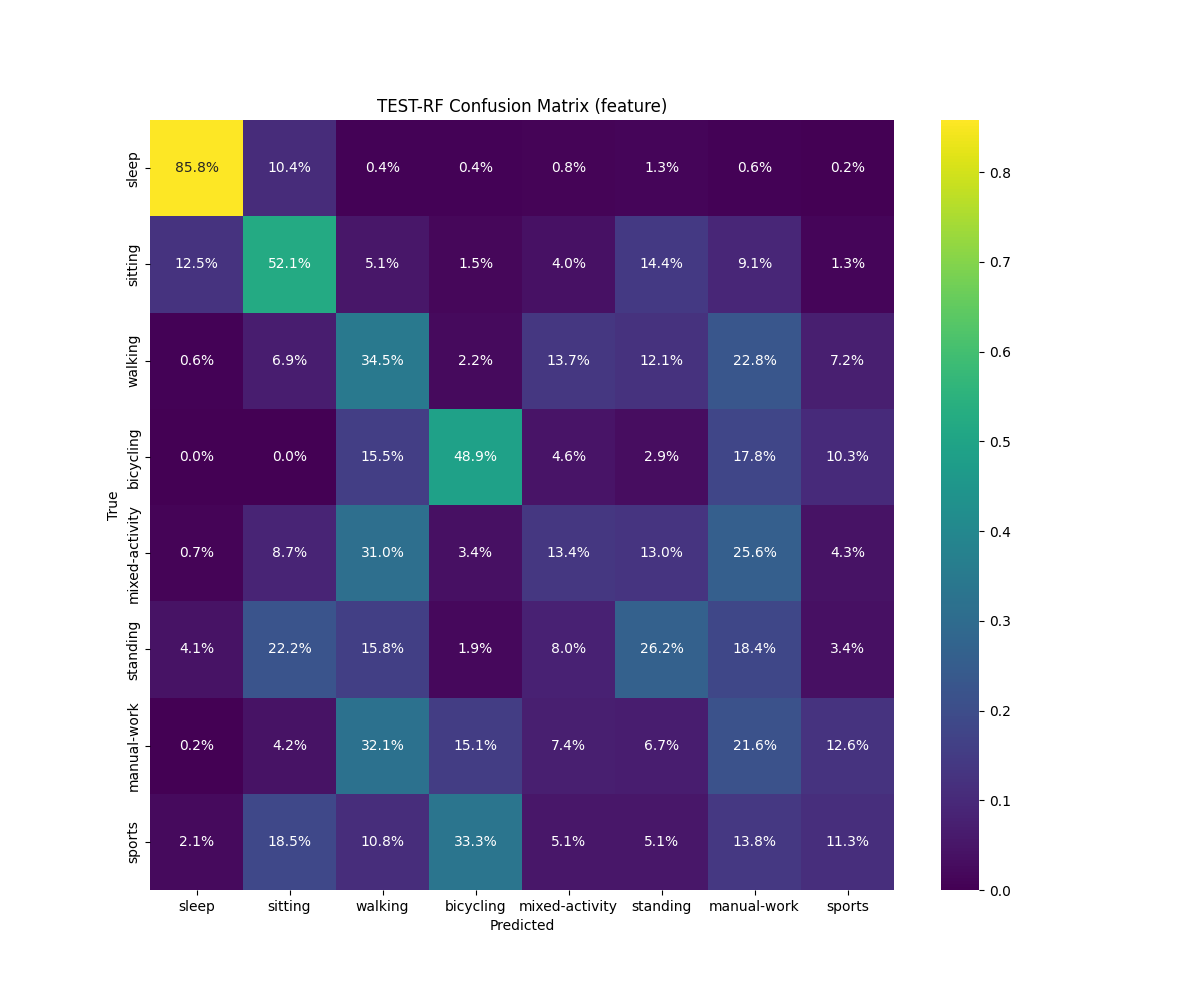
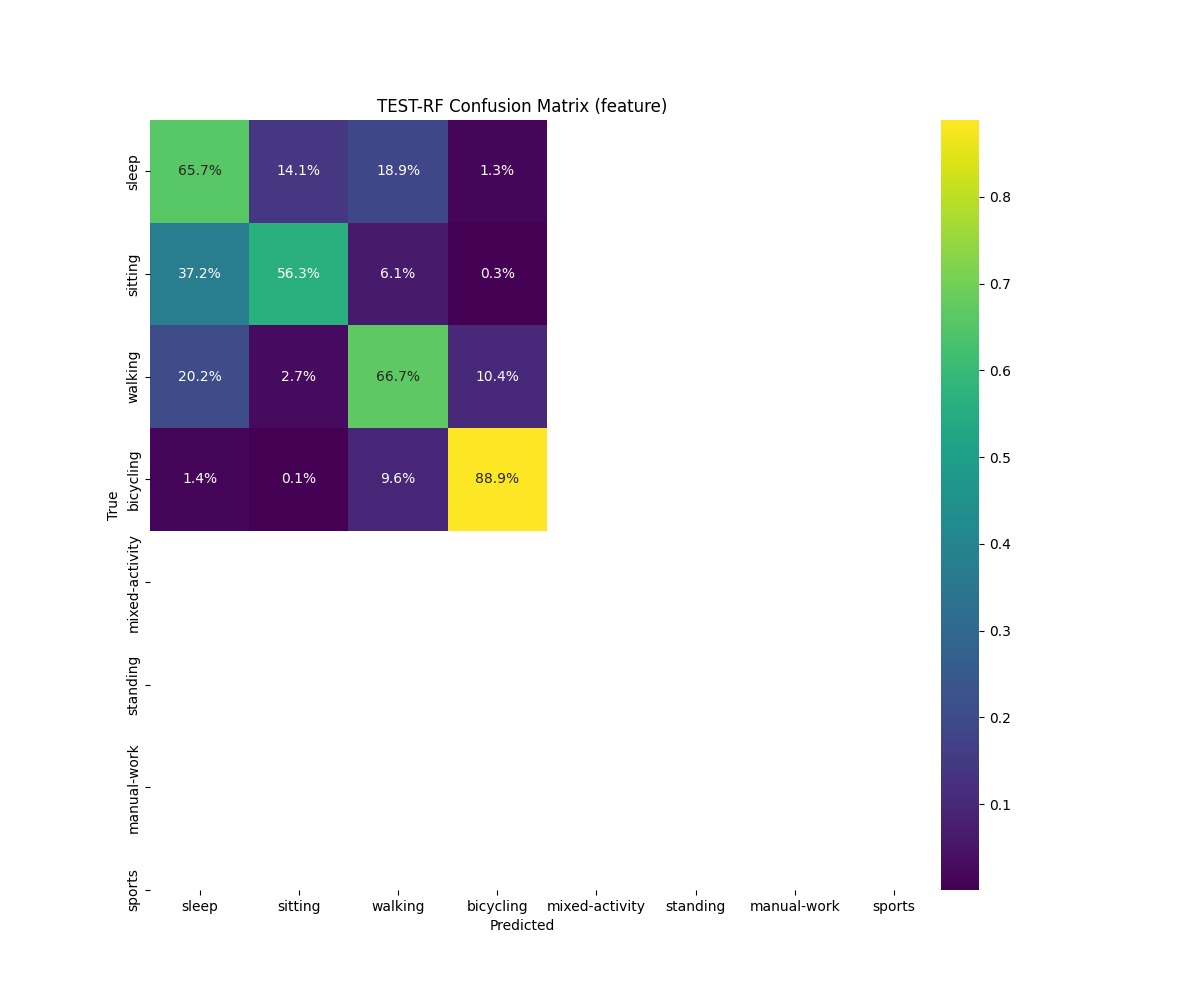
tested new dataset on llms and ml, works well so will keep it

diff --git a/llm_test.py b/llm_test.py
@@ -33,7 +33,10 @@ model = AutoModelForCausalLM.from_pretrained(model_id, quantization_config=confi
 # # model = AutoModelForCausalLM.from_pretrained("google/gemma-2b-it", device_map="auto", load_in_8bit=True) # pip install accelerate
 # model = AutoModelForCausalLM.from_pretrained("google/gemma-2b-it").to("cuda") # pip install accelerate
 
-activities = ["sleep", "sitting", "walking", "bicycling", "mixed-activity", "standing", "manual-work", "sports"]
+# activities = ["sleep", "sitting", "walking", "bicycling", "mixed-activity", "standing", "manual-work", "sports"]
+
+run_lim = 20
+
 
 def test_llm():
     input_text = "Write me a poem about Machine Learning."
@@ -51,16 +54,22 @@ def test_llm():
 def zero_shot_prompting(x_test, y_test, dataset_type):
 
     y_unencoded = remap_labels(y_test, "encode_to_label")
+    pred_labels = []
 
     for i in range(len(x_test)):
 
         zero_shot_template = f"""
                     You are a physical activity classifier. Predict the activity label from wrist accelerometer features.
                     
+                    Feature interpretation guide:
+                    - High std/rms/jerk = movement present. Low values = stillness.
+                    - sleep: near-zero std, jerk, and rms on all axes. Low dominant frequency.
+                    - sedentary: very low movement, some postural shifts. Low jerk.
+                    - light: moderate std and rms. Some rhythmic pattern in dominant frequency.
+                    - moderate-vigorous: high std, rms, jerk across axes. Elevated dominant frequency.
+
                     Possible labels:
                     sleep, sedentary, moderate-vigorous, light
-                    
-                    Features are Z-score normalized where 0 is the population mean.
                     
                     Features:
                     x-mean = {x_test.iloc[i]['x_mean']:.2f}, y-mean = {x_test.iloc[i]['y_mean']:.2f}, z-mean = {x_test.iloc[i]['z_mean']:.2f}
@@ -78,42 +87,104 @@ def zero_shot_prompting(x_test, y_test, dataset_type):
         input_ids = tokenizer(zero_shot_template, return_tensors="pt").to("cuda")
 
         outputs = model.generate(**input_ids,
-                                 max_new_tokens=20)
+                                 max_new_tokens=10,
+                                 temperature=0.1,
+                                 do_sample=False)
 
         response = tokenizer.decode(outputs[0], skip_special_tokens=True)
         print(response)
-        print(f"Actual label: {y_test[i]}")
+        r = extract_label(response)
+        print(r)
+        pred_labels.append(r)
         print(f"Actual label: {y_test[i]}, Activity: {y_unencoded[i]}")
 
-        if i == 3:
+        if i == run_lim:
             break
 
-    # acc = accuracy_score(testLabel_values.head(11), pred_labels_encoded)
+    pred_labels_encoded = remap_labels(pred_labels, "label_to_encode")
+
+    acc = accuracy_score(y_test[:len(pred_labels_encoded)], pred_labels_encoded)
+    prec = precision_score(y_test[:len(pred_labels_encoded)], pred_labels_encoded, average="weighted")
+    recall = recall_score(y_test[:len(pred_labels_encoded)], pred_labels_encoded, average="weighted")
+    f1 = f1_score(y_test[:len(pred_labels_encoded)], pred_labels_encoded, average="weighted")
+
+    print(f"Accuracy: {acc * 100:.2f}%")
+    print(f"Precision: {prec * 100:.2f}%")
+    print(f"Recall: {recall * 100:.2f}%")
+    print(f"F1-score: {f1 * 100:.2f}%")
+
+    # record results
+    model_type = "Zero-shot Prompting"
+    model_data = [dataset_type, acc, prec, recall, f1]
+
+    save_results(model_type, model_data)
 
 
-def few_shot_prompting(x_test, y_test, dataset_type):
-    # print(x_test.head())
-    # print(x_test.columns)
-    # 'x_mean', 'y_mean', 'z_mean', 'x_std', 'y_std', 'z_std', 'x_min',
-    #        'y_min', 'z_min', 'x_max', 'y_max', 'z_max', 'magnitude_mean'
-    # print(y_test)
+def few_shot_prompting(x_train, y_train, x_test, y_test, dataset_type):
     y_unencoded = remap_labels(y_test, "encode_to_label")
+    pred_labels = []
 
 
-    for i in range(0, len(x_test), 5):
+    for i in range(0, len(x_test)):
+        sample_df = sample_training_data(x_train, y_train)
+        sample_y = remap_labels(sample_df['encoded_label'], "encode_to_label")
 
         zero_shot_template = f"""
                     You are a physical activity classifier.
 
                     Predict the activity label from wrist accelerometer features.
+                    
+                    Feature interpretation guide:
+                    - High std/rms/jerk = movement present. Low values = stillness.
+                    - sleep: near-zero std, jerk, and rms on all axes. Low dominant frequency.
+                    - sedentary: very low movement, some postural shifts. Low jerk.
+                    - light: moderate std and rms. Some rhythmic pattern in dominant frequency.
+                    - moderate-vigorous: high std, rms, jerk across axes. Elevated dominant frequency.
 
                     Possible labels:
                     sleep, sedentary, moderate-vigorous, light
 
-
-                    Features are Z-score normalized where 0 is the population mean.
-                    
                     Example 1:
+                    Features:
+                    x-mean = {sample_df.iloc[0]['x_mean']:.2f}, y-mean = {sample_df.iloc[0]['y_mean']:.2f}, z-mean = {sample_df.iloc[0]['z_mean']:.2f}
+                    x-std = {sample_df.iloc[0]['x_std']:.2f}, y-std = {sample_df.iloc[0]['y_std']:.2f}, z-std = {sample_df.iloc[0]['z_std']:.2f}
+                    x-min = {sample_df.iloc[0]['x_min']:.2f}, y-min = {sample_df.iloc[0]['y_min']:.2f}, z-min = {sample_df.iloc[0]['z_min']:.2f}
+                    x-max = {sample_df.iloc[0]['x_max']:.2f}, y-max = {sample_df.iloc[0]['y_max']:.2f}, z-max = {sample_df.iloc[0]['z_max']:.2f}
+                    magnitude-mean = {sample_df.iloc[0]['magnitude_mean']:.2f}, magnitude-std = {sample_df.iloc[0]['magnitude_std']:.2f}
+                    rms = {sample_df.iloc[0]['rms']:.2f}, jerk = {sample_df.iloc[0]['jerk']:.2f}, dominant frequency = {sample_df.iloc[0]['dominant_freq']:.2f}
+                    Answer = {sample_y[0]}
+
+                    Example 2:
+                    Features:
+                    x-mean = {sample_df.iloc[1]['x_mean']:.2f}, y-mean = {sample_df.iloc[1]['y_mean']:.2f}, z-mean = {sample_df.iloc[1]['z_mean']:.2f}
+                    x-std = {sample_df.iloc[1]['x_std']:.2f}, y-std = {sample_df.iloc[1]['y_std']:.2f}, z-std = {sample_df.iloc[1]['z_std']:.2f}
+                    x-min = {sample_df.iloc[1]['x_min']:.2f}, y-min = {sample_df.iloc[1]['y_min']:.2f}, z-min = {sample_df.iloc[1]['z_min']:.2f}
+                    x-max = {sample_df.iloc[1]['x_max']:.2f}, y-max = {sample_df.iloc[1]['y_max']:.2f}, z-max = {sample_df.iloc[1]['z_max']:.2f}
+                    magnitude-mean = {sample_df.iloc[1]['magnitude_mean']:.2f}, magnitude-std = {sample_df.iloc[1]['magnitude_std']:.2f}
+                    rms = {sample_df.iloc[1]['rms']:.2f}, jerk = {sample_df.iloc[1]['jerk']:.2f}, dominant frequency = {sample_df.iloc[1]['dominant_freq']:.2f}
+                    Answer = {sample_y[1]}
+
+                    Example 3:
+                    Features:
+                    x-mean = {sample_df.iloc[2]['x_mean']:.2f}, y-mean = {sample_df.iloc[2]['y_mean']:.2f}, z-mean = {sample_df.iloc[2]['z_mean']:.2f}
+                    x-std = {sample_df.iloc[2]['x_std']:.2f}, y-std = {sample_df.iloc[2]['y_std']:.2f}, z-std = {sample_df.iloc[2]['z_std']:.2f}
+                    x-min = {sample_df.iloc[2]['x_min']:.2f}, y-min = {sample_df.iloc[2]['y_min']:.2f}, z-min = {sample_df.iloc[2]['z_min']:.2f}
+                    x-max = {sample_df.iloc[2]['x_max']:.2f}, y-max = {sample_df.iloc[2]['y_max']:.2f}, z-max = {sample_df.iloc[2]['z_max']:.2f}
+                    magnitude-mean = {sample_df.iloc[2]['magnitude_mean']:.2f}, magnitude-std = {sample_df.iloc[2]['magnitude_std']:.2f}
+                    rms = {sample_df.iloc[2]['rms']:.2f}, jerk = {sample_df.iloc[2]['jerk']:.2f}, dominant frequency = {sample_df.iloc[2]['dominant_freq']:.2f}
+                    Answer = {sample_y[2]}
+                    
+                    Example 4:
+                    Features:
+                    x-mean = {sample_df.iloc[3]['x_mean']:.2f}, y-mean = {sample_df.iloc[3]['y_mean']:.2f}, z-mean = {sample_df.iloc[3]['z_mean']:.2f}
+                    x-std = {sample_df.iloc[3]['x_std']:.2f}, y-std = {sample_df.iloc[3]['y_std']:.2f}, z-std = {sample_df.iloc[3]['z_std']:.2f}
+                    x-min = {sample_df.iloc[3]['x_min']:.2f}, y-min = {sample_df.iloc[3]['y_min']:.2f}, z-min = {sample_df.iloc[3]['z_min']:.2f}
+                    x-max = {sample_df.iloc[3]['x_max']:.2f}, y-max = {sample_df.iloc[3]['y_max']:.2f}, z-max = {sample_df.iloc[3]['z_max']:.2f}
+                    magnitude-mean = {sample_df.iloc[3]['magnitude_mean']:.2f}, magnitude-std = {sample_df.iloc[3]['magnitude_std']:.2f}
+                    rms = {sample_df.iloc[3]['rms']:.2f}, jerk = {sample_df.iloc[3]['jerk']:.2f}, dominant frequency = {sample_df.iloc[3]['dominant_freq']:.2f}
+                    Answer = {sample_y[3]}
+
+                    Now classify this sample:
                     Features:
                     x-mean = {x_test.iloc[i]['x_mean']:.2f}, y-mean = {x_test.iloc[i]['y_mean']:.2f}, z-mean = {x_test.iloc[i]['z_mean']:.2f}
                     x-std = {x_test.iloc[i]['x_std']:.2f}, y-std = {x_test.iloc[i]['y_std']:.2f}, z-std = {x_test.iloc[i]['z_std']:.2f}
@@ -121,37 +192,6 @@ def few_shot_prompting(x_test, y_test, dataset_type):
                     x-max = {x_test.iloc[i]['x_max']:.2f}, y-max = {x_test.iloc[i]['y_max']:.2f}, z-max = {x_test.iloc[i]['z_max']:.2f}
                     magnitude-mean = {x_test.iloc[i]['magnitude_mean']:.2f}, magnitude-std = {x_test.iloc[i]['magnitude_std']:.2f}
                     rms = {x_test.iloc[i]['rms']:.2f}, jerk = {x_test.iloc[i]['jerk']:.2f}, dominant frequency = {x_test.iloc[i]['dominant_freq']:.2f}
-                    Label = {y_unencoded[i]}
-                    
-                    Example 2:
-                    Features:
-                    x-mean = {x_test.iloc[i+1]['x_mean']:.2f}, y-mean = {x_test.iloc[i+1]['y_mean']:.2f}, z-mean = {x_test.iloc[i+1]['z_mean']:.2f}
-                    x-std = {x_test.iloc[i+1]['x_std']:.2f}, y-std = {x_test.iloc[i+1]['y_std']:.2f}, z-std = {x_test.iloc[i+1]['z_std']:.2f}
-                    x-min = {x_test.iloc[i+1]['x_min']:.2f}, y-min = {x_test.iloc[i+1]['y_min']:.2f}, z-min = {x_test.iloc[i+1]['z_min']:.2f}
-                    x-max = {x_test.iloc[i+1]['x_max']:.2f}, y-max = {x_test.iloc[i+1]['y_max']:.2f}, z-max = {x_test.iloc[i+1]['z_max']:.2f}
-                    magnitude-mean = {x_test.iloc[i+1]['magnitude_mean']:.2f}, magnitude-std = {x_test.iloc[i+1]['magnitude_std']:.2f}
-                    rms = {x_test.iloc[i+1]['rms']:.2f}, jerk = {x_test.iloc[i+1]['jerk']:.2f}, dominant frequency = {x_test.iloc[i+1]['dominant_freq']:.2f}
-                    Label = {y_unencoded[i+1]}
-                    
-                    Example 3:
-                    Features:
-                    x-mean = {x_test.iloc[i+2]['x_mean']:.2f}, y-mean = {x_test.iloc[i+2]['y_mean']:.2f}, z-mean = {x_test.iloc[i+2]['z_mean']:.2f}
-                    x-std = {x_test.iloc[i+2]['x_std']:.2f}, y-std = {x_test.iloc[i+2]['y_std']:.2f}, z-std = {x_test.iloc[i+2]['z_std']:.2f}
-                    x-min = {x_test.iloc[i+2]['x_min']:.2f}, y-min = {x_test.iloc[i+2]['y_min']:.2f}, z-min = {x_test.iloc[i+2]['z_min']:.2f}
-                    x-max = {x_test.iloc[i+2]['x_max']:.2f}, y-max = {x_test.iloc[i+2]['y_max']:.2f}, z-max = {x_test.iloc[i+2]['z_max']:.2f}
-                    magnitude-mean = {x_test.iloc[i+2]['magnitude_mean']:.2f}, magnitude-std = {x_test.iloc[i+2]['magnitude_std']:.2f}
-                    rms = {x_test.iloc[i+2]['rms']:.2f}, jerk = {x_test.iloc[i+2]['jerk']:.2f}, dominant frequency = {x_test.iloc[i+2]['dominant_freq']:.2f}
-                    Label = {y_unencoded[i+2]}
-                    
-                    Now classify this sample:
-                    Features:
-                    x-mean = {x_test.iloc[i+3]['x_mean']:.2f}, y-mean = {x_test.iloc[i+3]['y_mean']:.2f}, z-mean = {x_test.iloc[i+3]['z_mean']:.2f}
-                    x-std = {x_test.iloc[i+3]['x_std']:.2f}, y-std = {x_test.iloc[i+3]['y_std']:.2f}, z-std = {x_test.iloc[i+3]['z_std']:.2f}
-                    x-min = {x_test.iloc[i+3]['x_min']:.2f}, y-min = {x_test.iloc[i+3]['y_min']:.2f}, z-min = {x_test.iloc[i+3]['z_min']:.2f}
-                    x-max = {x_test.iloc[i+3]['x_max']:.2f}, y-max = {x_test.iloc[i+3]['y_max']:.2f}, z-max = {x_test.iloc[i+3]['z_max']:.2f}
-                    magnitude-mean = {x_test.iloc[i+3]['magnitude_mean']:.2f}, magnitude-std = {x_test.iloc[i+3]['magnitude_std']:.2f}
-                    rms = {x_test.iloc[i+3]['rms']:.2f}, jerk = {x_test.iloc[i+3]['jerk']:.2f}, dominant frequency = {x_test.iloc[i+3]['dominant_freq']:.2f}
-
                     Return only the single best activity.
 
                     Answer:
@@ -166,13 +206,59 @@ def few_shot_prompting(x_test, y_test, dataset_type):
 
         response = tokenizer.decode(outputs[0], skip_special_tokens=True)
         print(response)
-        print(f"Actual label: {y_test[i]}")
+        # print(f"Actual label: {y_test[i]}")
+        r = extract_label(response)
+        pred_labels.append(r)
+        print(r)
         print(f"Actual label: {y_test[i]}, Activity: {y_unencoded[i]}")
 
-
-        if i == (3*5):
+        if i == run_lim:
             break
 
+    pred_labels_encoded = remap_labels(pred_labels, "label_to_encode")
+
+    acc = accuracy_score(y_test[:len(pred_labels_encoded)], pred_labels_encoded)
+    prec = precision_score(y_test[:len(pred_labels_encoded)], pred_labels_encoded, average="weighted")
+    recall = recall_score(y_test[:len(pred_labels_encoded)], pred_labels_encoded, average="weighted")
+    f1 = f1_score(y_test[:len(pred_labels_encoded)], pred_labels_encoded, average="weighted")
+
+    print(f"Accuracy: {acc * 100:.2f}%")
+    print(f"Precision: {prec * 100:.2f}%")
+    print(f"Recall: {recall * 100:.2f}%")
+    print(f"F1-score: {f1 * 100:.2f}%")
+
+    # record results
+    model_type = "Few-shot Prompting"
+    model_data = [dataset_type, acc, prec, recall, f1]
+
+    save_results(model_type, model_data)
+
+
+
+def extract_label(response):
+    if "Answer:" in response:
+        response = response.split("Answer:")[-1]
+
+    response = response.strip().lower()
+    valid_labels = ["sleep", "sedentary", "light", "moderate-vigorous"]
+
+    for label in valid_labels:
+        if label in response:
+            return label
+
+    return "N/A"
+
+
+def sample_training_data(x_train, y_train):
+    # take a random sample for each label for few shot prompting
+
+    df = x_train.copy()
+    df['encoded_label'] = y_train
+
+    sample_df = df.groupby("encoded_label", group_keys=False).sample(n=1)
+
+    # print(sample_df)
+    return sample_df
 
 def remap_labels(label_list, direction):
     # --- New label mapping ---
@@ -181,7 +267,7 @@ def remap_labels(label_list, direction):
 
     # get all unique pairs
     labels = label_df[['label:Walmsley2020', 'encoded_label']].drop_duplicates().reset_index(drop=True)
-    print(labels)
+    # print(labels)
 
     if direction == "label_to_encode":
         mapping = dict(zip(
@@ -214,8 +300,10 @@ if __name__ == "__main__":
         # x_train, x_test, y_train, y_test = get_feature_dataset()
         x_train, x_test, y_train, y_test = get_llm_dataset()
 
+        # sample_training_data(x_train, y_train)
+
         zero_shot_prompting(x_test, y_test, dataset_type)
-        few_shot_prompting(x_test, y_test, dataset_type)
+        few_shot_prompting(x_train, y_train, x_test, y_test, dataset_type)
 
 
 

diff --git a/feature_preprocessing.py b/feature_preprocessing.py
@@ -261,8 +261,10 @@ def combine_data(dir):
         master_df.to_csv(r"data\TEST-DATA.csv", mode='w', index=False)
 
 def scale_and_sample_data():
-    train_df = pd.read_csv(r"D:\kimia\Documents\University\UEA\Yr3 Project\Dataset\data\TRAIN-DATA.csv")
-    test_df = pd.read_csv(r"D:\kimia\Documents\University\UEA\Yr3 Project\Dataset\data\TEST-DATA.csv")
+    # train_df = pd.read_csv(r"D:\kimia\Documents\University\UEA\Yr3 Project\Dataset\data\TRAIN-DATA.csv")
+    # test_df = pd.read_csv(r"D:\kimia\Documents\University\UEA\Yr3 Project\Dataset\data\TEST-DATA.csv")
+    train_df = pd.read_csv(r"data\TRAIN-DATA.csv")
+    test_df = pd.read_csv(r"data\TEST-DATA.csv")
     
     scaler = StandardScaler()
 
@@ -294,8 +296,10 @@ def scale_and_sample_data():
     print(f"Testing size: {test_sampled.shape}")
 
     # save datasets - csv file (-SS for scaled + sampled)
-    train_sampled.to_csv(r"D:\kimia\Documents\University\UEA\Yr3 Project\Dataset\data\TRAIN-DATA-SS.csv", mode = 'w', index = False)
-    test_sampled.to_csv(r"D:\kimia\Documents\University\UEA\Yr3 Project\Dataset\data\TEST-DATA-SS.csv", mode = 'w', index = False)
+    # train_sampled.to_csv(r"D:\kimia\Documents\University\UEA\Yr3 Project\Dataset\data\TRAIN-DATA-SS.csv", mode = 'w', index = False)
+    # test_sampled.to_csv(r"D:\kimia\Documents\University\UEA\Yr3 Project\Dataset\data\TEST-DATA-SS.csv", mode = 'w', index = False)
+    train_sampled.to_csv(r"data\TRAIN-DATA-SS.csv", mode = 'w', index = False)
+    test_sampled.to_csv(r"data\TEST-DATA-SS.csv", mode = 'w', index = False)
 
 
 def llm_sample_data():
@@ -337,10 +341,12 @@ def sample_dataset(df, sample_size, training):
     return df_sample
 
 def get_feature_dataset():
-    dir1 = r"D:\kimia\Documents\University\UEA\Yr3 Project\Dataset\data\TRAIN-DATA-SS.csv"
+    # dir1 = r"D:\kimia\Documents\University\UEA\Yr3 Project\Dataset\data\TRAIN-DATA-SS.csv"
+    dir1 = r"data\TRAIN-DATA-SS.csv"
     df_train = pd.read_csv(dir1)
 
-    dir2 = r"D:\kimia\Documents\University\UEA\Yr3 Project\Dataset\data\TEST-DATA-SS.csv"
+    # dir2 = r"D:\kimia\Documents\University\UEA\Yr3 Project\Dataset\data\TEST-DATA-SS.csv"
+    dir2 = r"data\TEST-DATA-SS.csv"
     df_test = pd.read_csv(dir2)
 
     x_train = df_train.drop(columns=['label'])
@@ -374,12 +380,12 @@ if __name__ == "__main__":
     # preprocess_dir(test_participants, "test")
 
     # combine individual preprocessed csvs
-    combine_data("train")
-    combine_data("test")
+    # combine_data("train")
+    # combine_data("test")
 
     # scale data (normalise)
-    # scale_and_sample_data()
-    llm_sample_data()
+    scale_and_sample_data()
+    # llm_sample_data()
 
 
     # df = pd.read_csv(r"D:\kimia\Documents\University\UEA\Yr3 Project\Dataset\data\MASTER-DATA.csv")

diff --git a/random_forest.py b/random_forest.py
@@ -175,8 +175,8 @@ def generate_cm(y_test, y_pred, model_type, dataset_type):
 
 
 if __name__ == "__main__":
-    dataset_type = "standard"
-    # dataset_type = "feature"
+    # dataset_type = "standard"
+    dataset_type = "feature"
 
     if dataset_type == "standard":
         x_train, x_test, y_train, y_test = get_standard_dataset()
@@ -194,4 +194,4 @@ if __name__ == "__main__":
 
         # fine_tuning(x_train, y_train, dataset_type)
 
-        assess_model(x_train, x_test, y_train, y_test, dataset_type)
+        # assess_model(x_train, x_test, y_train, y_test, dataset_type)

diff --git a/k_nearest_neighbours.py b/k_nearest_neighbours.py
@@ -136,4 +136,4 @@ if __name__ == "__main__":
 
         # fine_tuning(x_train, y_train, dataset_type)
 
-        assess_model(x_train, x_test, y_train, y_test, dataset_type)
+        # assess_model(x_train, x_test, y_train, y_test, dataset_type)

diff --git a/xg_boost.py b/xg_boost.py
@@ -136,4 +136,4 @@ if __name__ == "__main__":
 
         # fine_tuning(x_train, y_train, dataset_type)
 
-        assess_model(x_train, x_test, y_train, y_test, dataset_type)
+        # assess_model(x_train, x_test, y_train, y_test, dataset_type)
